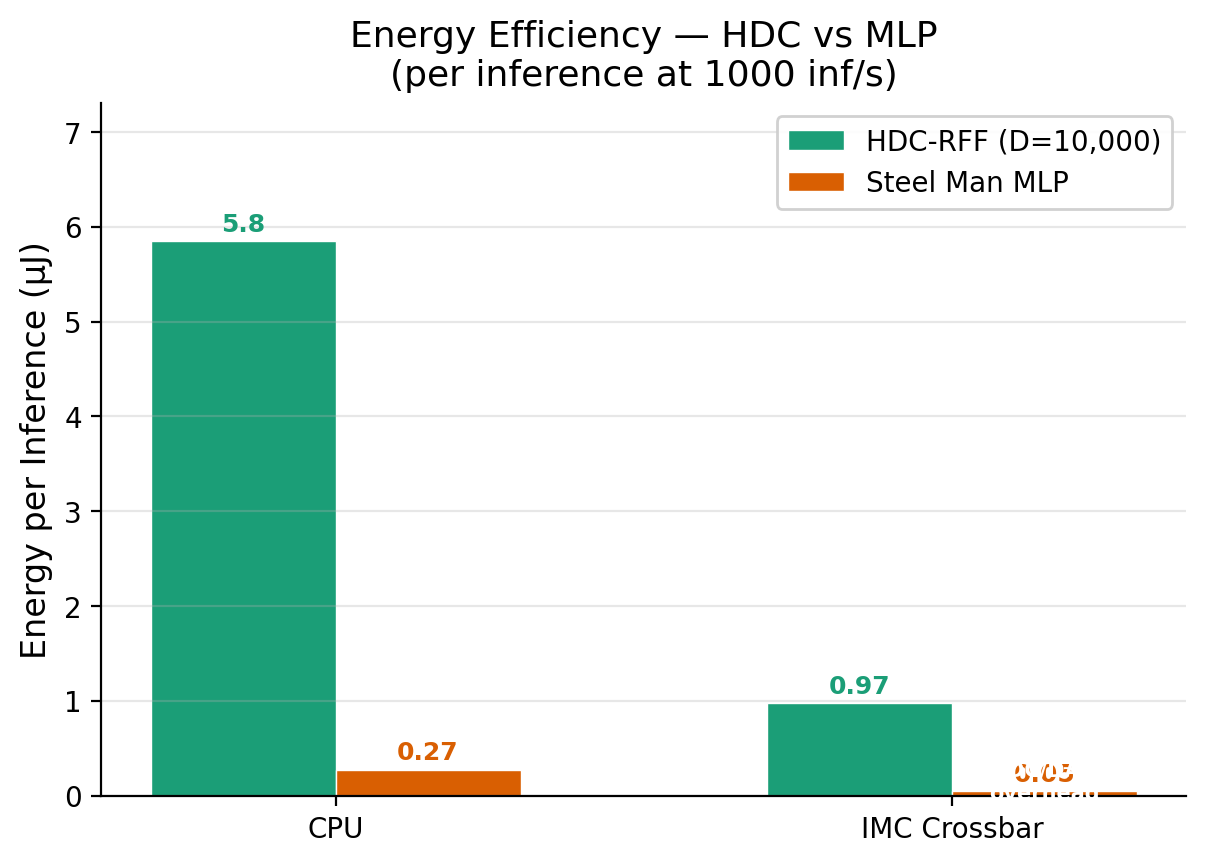
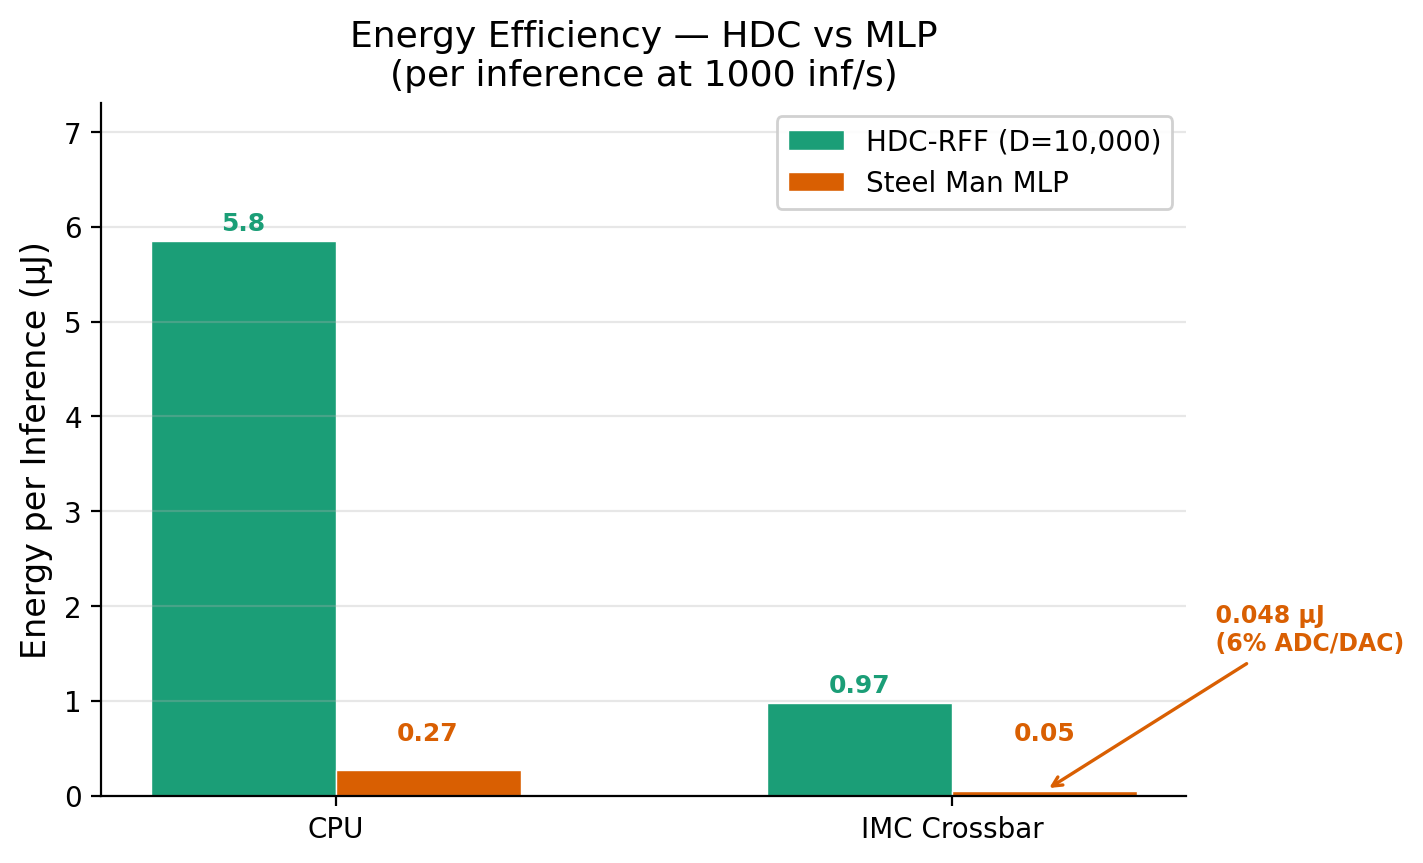
Fix energy chart: lift tiny MLP IMC bar label with callout arrow
MLP IMC energy (0.048 uJ) was invisible at scale with HDC CPU (5.8 uJ).
Label now uses annotate with arrow pointing to the bar, showing exact
value and ADC/DAC overhead percentage.

diff --git a/src/generate_figures.py b/src/generate_figures.py
@@ -247,27 +247,34 @@ def plot_energy_comparison(hw, ax=None):
     bars_mlp = ax.bar(x + width/2, mlp_vals, width, label="Steel Man MLP",
                       color=COLORS["mlp"], edgecolor="white", linewidth=0.5)
 
-    # Value labels on bars
+    # Value labels on bars — lift tiny bars so the label is readable
+    ymax = max(hdc_cpu, mlp_cpu, hdc_imc, mlp_imc_total)
+    label_floor = ymax * 0.08  # minimum height before we offset the label
+
     for bar in bars_hdc:
         h = bar.get_height()
-        ax.text(bar.get_x() + bar.get_width()/2, h + 0.05,
+        label_y = max(h, label_floor) + ymax * 0.01
+        ax.text(bar.get_x() + bar.get_width()/2, label_y,
                 f"{h:.2f}" if h < 1 else f"{h:.1f}",
                 ha="center", va="bottom", fontsize=9, color=COLORS["hdc"],
                 fontweight="bold")
     for bar in bars_mlp:
         h = bar.get_height()
-        ax.text(bar.get_x() + bar.get_width()/2, h + 0.05,
+        label_y = max(h, label_floor) + ymax * 0.01
+        ax.text(bar.get_x() + bar.get_width()/2, label_y,
                 f"{h:.2f}" if h < 1 else f"{h:.1f}",
                 ha="center", va="bottom", fontsize=9, color=COLORS["mlp"],
                 fontweight="bold")
 
-    # MLP overhead annotation on IMC bar
+    # MLP overhead annotation — placed above bar with arrow since bar is tiny
     overhead_pct = (e["mlp_baseline"]["imc_overhead_pj"] /
                     e["mlp_baseline"]["imc_total_energy_pj"]) * 100
-    ax.text(x[1] + width/2, mlp_imc_total * 0.5,
-            f"ADC/DAC\noverhead\n{overhead_pct:.0f}%",
-            ha="center", va="center", fontsize=7.5, color="white",
-            fontweight="bold")
+    ax.annotate(f"  {mlp_imc_total:.3f} µJ\n  ({overhead_pct:.0f}% ADC/DAC)",
+                xy=(x[1] + width/2, mlp_imc_total),
+                xytext=(x[1] + width/2 + 0.25, ymax * 0.30),
+                fontsize=8.5, color=COLORS["mlp"], fontweight="bold",
+                arrowprops=dict(arrowstyle="->", color=COLORS["mlp"], lw=1.2),
+                va="center", ha="left")
 
     ax.set_xticks(x)
     ax.set_xticklabels(labels)
